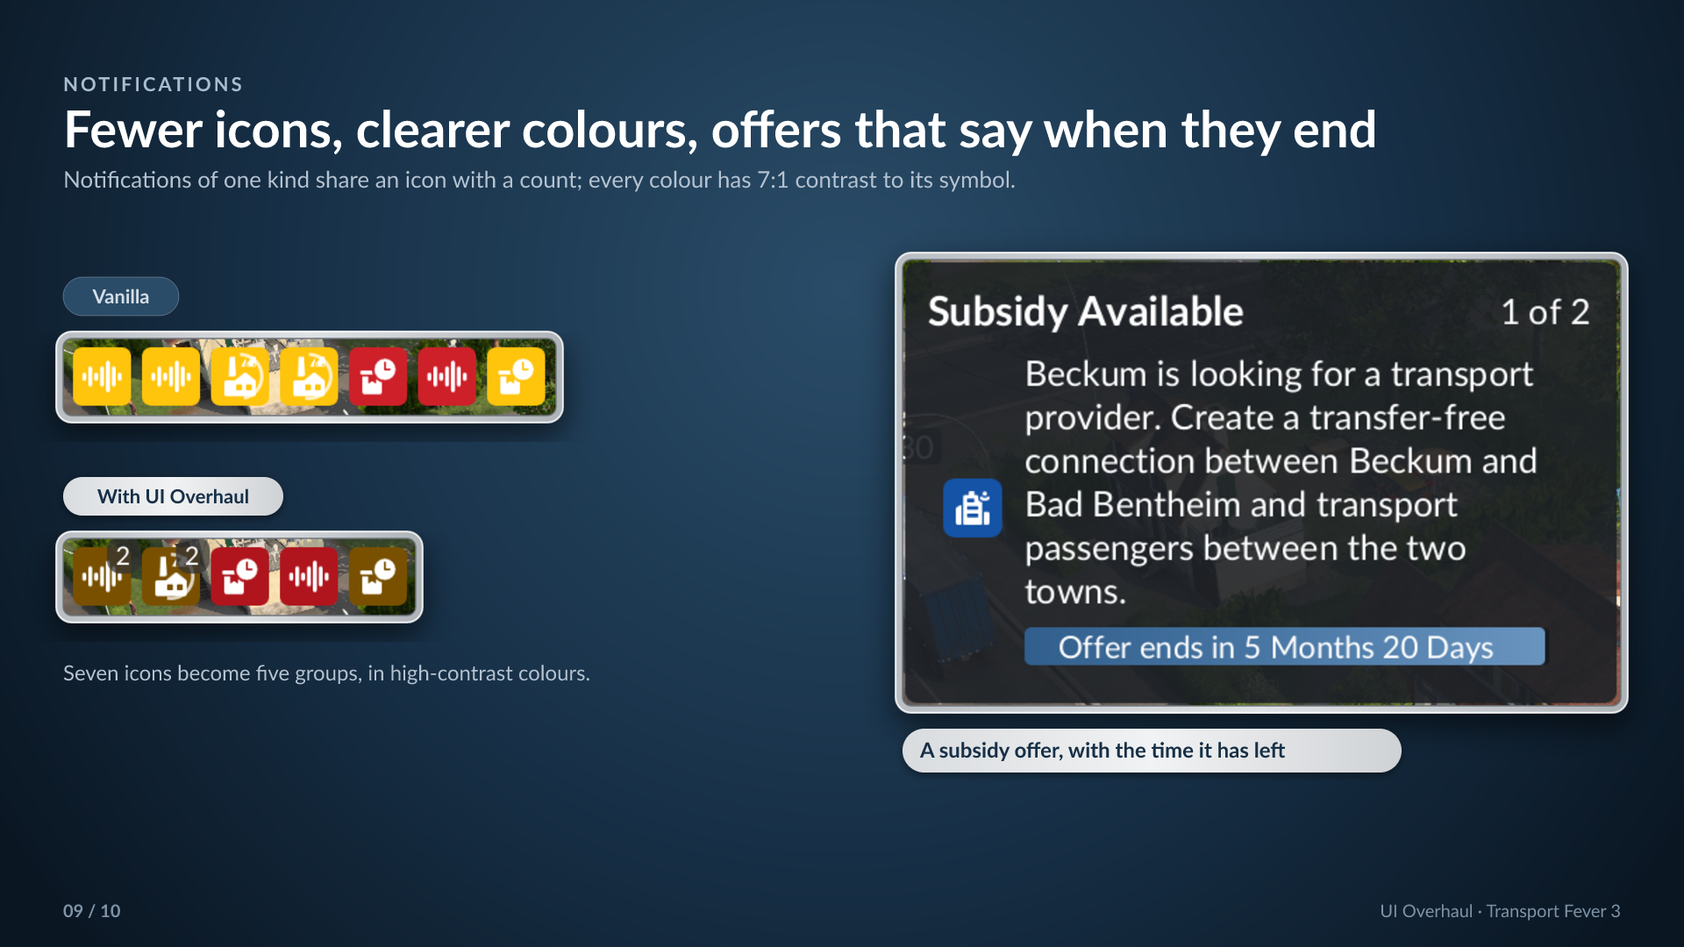
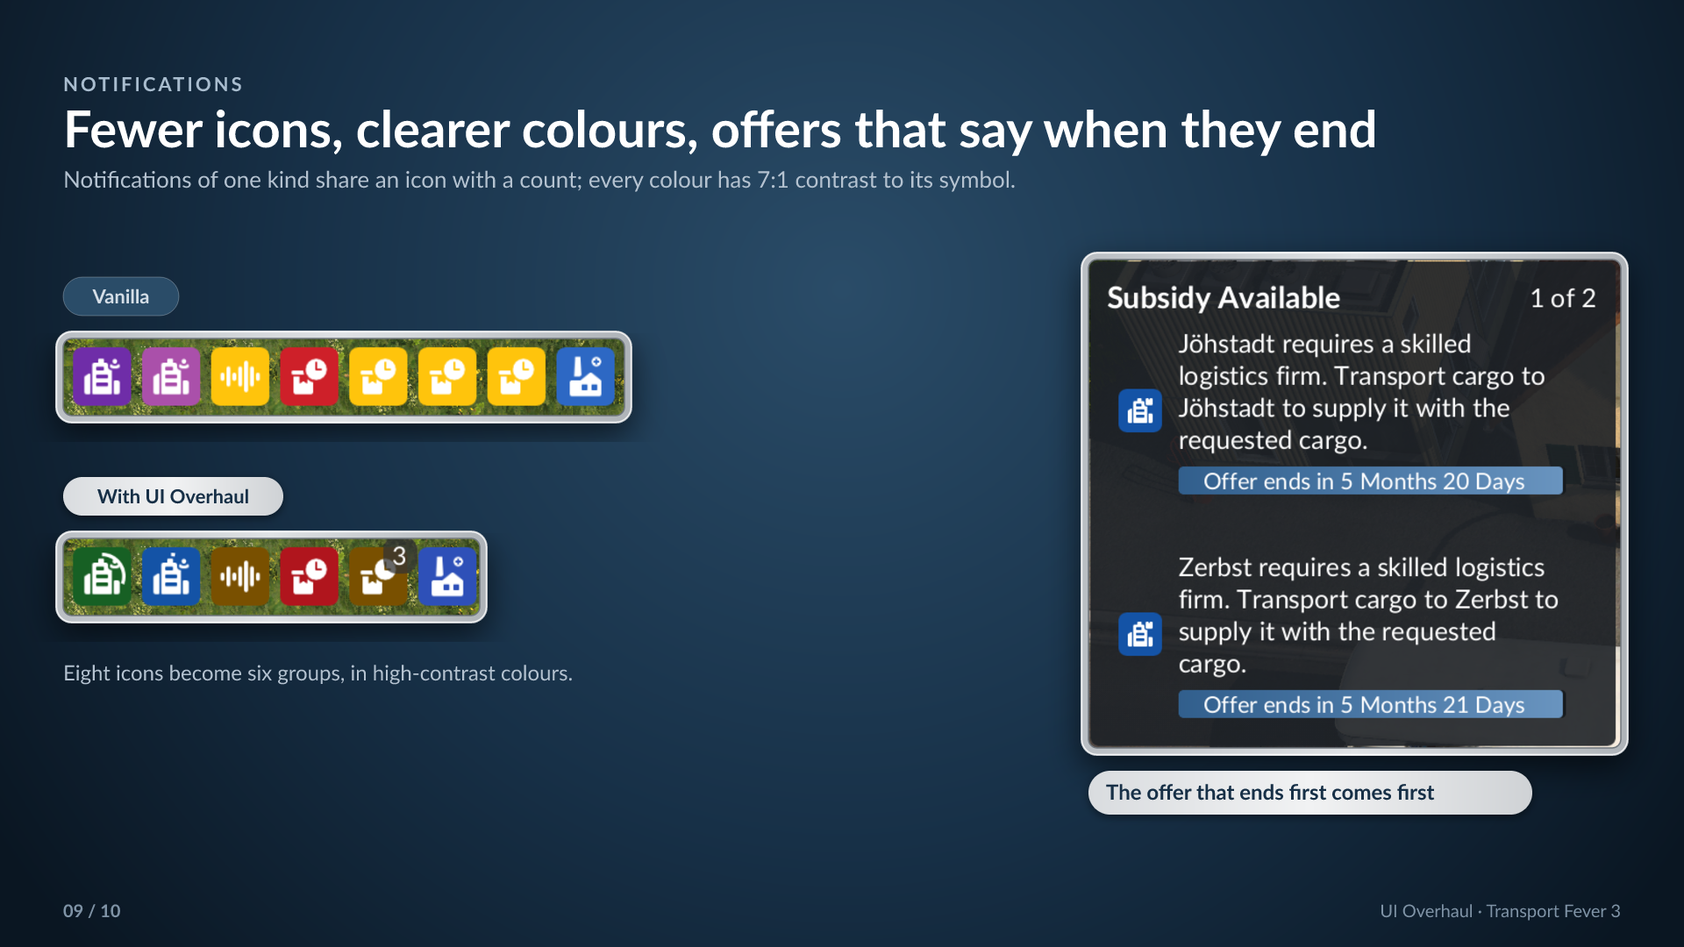
Revision 4: gallery, docs, mod page
- The gallery reshot on "Neues Spiel" (the two-column Line Manager, the subsidy list, the new
  minimize button); compose.py measured again, the scenes' mouse positions with it. The minimize
  scene folds with a real click, which leaves no tooltip.
- mod.json: the "Reopen with the last line" param, revision 4.
- README, design.md (tested with Grid Build Menu, Bigger Line Dots, Town Zoning Tool), gallery.md,
  the mod page text.
- Testbench: the cargo filter checks (Fill Level slider).

diff --git a/tools/gallery/compose.py b/tools/gallery/compose.py
@@ -13,8 +13,8 @@ Usage: tools/gallery/compose.py <screenshots dir> <out dir>
   <screenshots dir> holds gallery-mod/ and gallery-vanilla/ (spec/ingame/results)
 Writes <out dir>/NN-name.svg and <out dir>/crops.txt (the regions the cards use, which build.sh cuts
 into <screenshots dir>/gallery-crops/ before it renders the cards to PNG).
-Regions are in screenshot pixels (3440 x 1440: the captures' screen), measured on the shots of
-World#1; another savegame needs them measured again.
+Regions are in screenshot pixels (3440 x 1440: the captures' screen), measured on the shots of the
+savegame "Neues Spiel" (docs/gallery.md); another savegame needs them measured again.
 """
 import os
 import sys
@@ -194,21 +194,24 @@ TOTAL = 10
 def before_after():
     c = Card(1, TOTAL, "Line Manager", "See which lines lose money at a glance",
              "Vehicle count and 12-month balance for every line, load and age for every vehicle.")
-    crop = (100, 96, 690, 760)  # the Line Manager's title row, lines and vehicles
+    # the Line Manager's title row, lines and vehicles: one column in the game, two with the mod
+    crop_before = (100, 96, 690, 760)
+    crop_after = (100, 96, 1366, 760)
     y = TOP + 44 + 30
-    h = BOTTOM - y
-    w = round(690 * h / 760)
     gap = 130
-    left = (W - 2 * w - gap) // 2
+    scale = (W - 2 * MARGIN - gap) / (crop_before[2] + crop_after[2])
+    h = round(760 * scale)
+    w_before, w_after = round(crop_before[2] * scale), round(crop_after[2] * scale)
+    left = (W - w_before - w_after - gap) // 2
     c.chip(left, TOP + 4, "Vanilla", False)
-    c.shot(VANILLA + "gallery_line_manager.png", crop, (left, y, w, h))
-    right = left + w + gap
+    c.shot(VANILLA + "gallery_line_manager.png", crop_before, (left, y, w_before, h))
+    right = left + w_before + gap
     c.chip(right, TOP + 4, "With UI Overhaul", True)
-    m = c.shot(MOD + "gallery_line_manager.png", crop, (right, y, w, h))
-    c.outline(c.mapped(m, (486, 282, 182, 262)))   # vehicle count and balance
-    c.outline(c.mapped(m, (110, 604, 672, 52)))    # the model row
-    c.outline(c.mapped(m, (543, 664, 212, 172)))   # load, condition and age
-    c.arrow(left + w + gap / 2, y + h / 2)
+    m = c.shot(MOD + "gallery_line_manager.png", crop_after, (right, y, w_after, h))
+    c.outline(c.mapped(m, (486, 288, 182, 556)))    # vehicle count and balance
+    c.outline(c.mapped(m, (788, 335, 662, 36)))     # the model row
+    c.outline(c.mapped(m, (1187, 390, 241, 76)))    # load, condition and age
+    c.arrow(left + w_before + gap / 2, y + h / 2)
     return "01-line-manager-before-after", c
 
 
@@ -219,8 +222,8 @@ def terminals():
     box = (MARGIN, TOP + 8, W - 2 * MARGIN, BOTTOM - TOP - 8)
     context = (560, 0, 2880, round(2880 * box[3] / box[2]))
     m = c.shot(src, context, box)
-    rows = (2822, 196, 558, 240)  # the first terminal's line rows with their buttons
-    pop = (858, 212, 938, 218)    # the popover
+    rows = (2818, 140, 562, 272)  # the terminals' line rows with their buttons
+    pop = (858, 214, 938, 166)    # the popover (above the tooltip of the button that opened it)
     c.outline(c.mapped(m, rows))
     c.outline(c.mapped(m, pop))
     _mp, bp = c.zoom(src, pop, (MARGIN + 56, BOTTOM - 56 - pop[3]), 1.0)
@@ -240,7 +243,7 @@ def industry():
     box_w = W - 2 * MARGIN
     box_h = round(box_w * 1440 / 3440)
     m = c.shot(src, (0, 0, 3440, 1440), (MARGIN, TOP + 8, box_w, box_h))
-    card = (2818, 350, 564, 425)  # Development and Served by
+    card = (2816, 350, 566, 420)  # Development and Served by
     c.outline(c.mapped(m, card))
     _mi, bi = c.zoom(src, card, (MARGIN + 56, TOP + 44), 1.12)
     sc = c.mapped(m, card)
@@ -256,13 +259,13 @@ def statistics():
     box_w = W - 2 * MARGIN
     box_h = round(box_w * 1440 / 3440)
     m = c.shot(src, (0, 0, 3440, 1440), (MARGIN, TOP + 8, box_w, box_h))
-    filters = (90, 1014, 510, 56)
-    totals = (2838, 1016, 520, 56)
+    filters = (90, 1016, 510, 52)
+    totals = (2850, 1016, 510, 54)
     c.outline(c.mapped(m, filters))
     c.outline(c.mapped(m, totals))
     scale = 1.55
     _mf, bf = c.zoom(src, filters, (MARGIN + 70, TOP + 90), scale)
-    _mt, bt = c.zoom(src, totals, (W - MARGIN - 70 - round(520 * scale), TOP + 90), scale)
+    _mt, bt = c.zoom(src, totals, (W - MARGIN - 70 - round(totals[2] * scale), TOP + 90), scale)
     sf, st = c.mapped(m, filters), c.mapped(m, totals)
     c.connector((sf[0] + sf[2] / 2, sf[1] - 4), (bf[0] + bf[2] / 2, bf[1] + bf[3] + BEZEL))
     c.connector((st[0] + st[2] / 2, st[1] - 4), (bt[0] + bt[2] / 2, bt[1] + bt[3] + BEZEL))
@@ -274,17 +277,18 @@ def statistics():
 def workflow():
     c = Card(7, TOTAL, "Workflow", "Replace a vehicle model across your whole network",
              "Pick the model, pull its vehicles from every line, replace them all at once.")
-    crop = (100, 322, 690, 740)
+    vehicles = (780, 236, 690, 740)  # the Line Manager's vehicle column
+    lines = (100, 236, 690, 740)     # its line column, where it asks
     steps = [
-        (MOD + "gallery_models_select.png", "Click the model", (110, 604, 672, 52)),
-        (MOD + "gallery_models_all_lines.png", "“In all lines” adds every one", (110, 610, 666, 266)),
-        (MOD + "gallery_models_replace.png", "Replace them all in one go", (166, 893, 560, 112)),
+        (MOD + "gallery_models_select.png", "Click the model", vehicles, (788, 335, 662, 36)),
+        (MOD + "gallery_models_all_lines.png", "“In all lines” adds every one", vehicles, (788, 326, 662, 640)),
+        (MOD + "gallery_models_replace.png", "Replace them all in one go", lines, (170, 858, 550, 112)),
     ]
     gap = 52
     w = (W - 2 * MARGIN - 2 * gap) // 3
     h = round(w * 740 / 690)
     y = TOP + 76
-    for i, (src, caption, mark) in enumerate(steps):
+    for i, (src, caption, crop, mark) in enumerate(steps):
         x = MARGIN + i * (w + gap)
         m = c.shot(src, crop, (x, y, w, h))
         c.outline(c.mapped(m, mark))
@@ -348,9 +352,9 @@ def line_window():
     c = Card(2, TOTAL, "Line window", "Add or remove a vehicle without the Line Manager",
              "Load and condition per vehicle, Add Vehicle and Remove Vehicle, and a Stops card with who waits where.")
     m, _box, _b = pair(c, (2800, 400, 610, 820), VANILLA + "gallery_line_window.png", MOD + "gallery_line_window.png")
-    c.outline(c.mapped(m, (3080, 488, 146, 134)))   # load and condition
-    c.outline(c.mapped(m, (2836, 660, 424, 52)))    # Add Vehicle, Remove Vehicle
-    c.outline(c.mapped(m, (2822, 720, 556, 262)))   # the Stops card
+    c.outline(c.mapped(m, (3078, 492, 140, 124)))   # load and condition
+    c.outline(c.mapped(m, (2836, 652, 420, 42)))    # Add Vehicle, Remove Vehicle
+    c.outline(c.mapped(m, (2822, 722, 556, 244)))   # the Stops card
     return "02-line-window-before-after", c
 
 
@@ -358,7 +362,7 @@ def vehicle_hover():
     c = Card(3, TOTAL, "Vehicles on the map", "Hover a vehicle, see how it is doing",
              "Line, next stop, speed, load, condition and delivery quality, right where the vehicle is.")
     m, _box, _b = pair(c, (1560, 600, 760, 480), VANILLA + "gallery_vehicle_hover.png", MOD + "gallery_vehicle_hover.png")
-    c.outline(c.mapped(m, (1736, 816, 450, 198)))
+    c.outline(c.mapped(m, (1734, 812, 478, 198)))
     return "03-vehicle-hover-before-after", c
 
 
@@ -383,8 +387,8 @@ def warehouses():
 def notifications():
     c = Card(9, TOTAL, "Notifications", "Fewer icons, clearer colours, offers that say when they end",
              "Notifications of one kind share an icon with a count; every colour has 7:1 contrast to its symbol.")
-    vanilla_ridge = (1140, 8, 450, 70)
-    mod_ridge = (1140, 8, 322, 70)
+    vanilla_ridge = (1140, 8, 512, 70)
+    mod_ridge = (1140, 8, 380, 70)
     scale = 1.25
     y = TOP + 60
     c.chip(MARGIN, y, "Vanilla", False)
@@ -392,11 +396,11 @@ def notifications():
     y2 = y + 70 + round(70 * scale) + 70
     c.chip(MARGIN, y2, "With UI Overhaul", True)
     c.zoom(MOD + "gallery_vehicle_hover.png", mod_ridge, (MARGIN, y2 + 70), scale)
-    card = (1296, 88, 512, 318)
-    s2 = 1.6
+    card = (1036, 88, 514, 472)  # two offers in one group: the one that ends first, the other below
+    s2 = 1.18
     _mc, bc = c.zoom(MOD + "gallery_subsidy_hover_3.png", card, (W - MARGIN - round(card[2] * s2), TOP + 40), s2)
-    c.plate(bc[0], bc[1] + bc[3] + 26, "A subsidy offer, with the time it has left")
-    c.text(MARGIN, y2 + 70 + round(70 * scale) + 74, "Seven icons become five groups, in high-contrast colours.", 24,
+    c.plate(bc[0], bc[1] + bc[3] + 26, "The offer that ends first comes first")
+    c.text(MARGIN, y2 + 70 + round(70 * scale) + 74, "Eight icons become six groups, in high-contrast colours.", 24,
            MUTED, 400)
     return "09-notifications", c
 
@@ -424,8 +428,8 @@ def minimize():
     crop = (2280, 0, 1160, 1220)
     after, _box, before = pair(c, crop, MOD + "gallery_minimize_open.png", MOD + "gallery_minimize_folded.png",
                                ("Open", "Minimized"))
-    c.outline(c.mapped(before, (3222, 20, 42, 42)), radius=21)
-    c.outline(c.mapped(after, (2796, 8, 612, 84)))
+    c.outline(c.mapped(before, (3266, 20, 42, 42)), radius=21)
+    c.outline(c.mapped(after, (2796, 12, 616, 84)))
     return "10-minimize", c
 
 

diff --git a/docs/design.md b/docs/design.md
@@ -24,7 +24,8 @@ The player-facing list is in the [README](../README.md#what-changes). This table
 | Line Manager | vehicle search above the vehicle list (name, model, line) | `lvm_search.lua`, `core/vehicle_search.lua`, `lvm_tweaks.lua` (`install_search`) | the same `VehicleList` replacement, its part shown while the feature is (`priority.active`); narrows the manager's `vehicleManagerStateRef` to the matches and keeps the rest in a stash (so the base's select-all, counts and actions reach only what is shown); wraps the manager api's `addVehiclesToVehicleListAndSelect`, `removeVehiclesFromVehicleList`, `clearVehicleList` to keep the stash in step; with no match the list keeps its vehicles, none selected, and shows no row (an empty list would close the list and its field) |
 | Line Manager | two columns: lines and line panel left, vehicles right, twice as wide | `lvm_columns.lua`, `lvm_columns.css.lua` | wraps `builtin.BoxLayout` (`builtin_wraps.lua`): while `ManagerWindowContent` renders (`react.getCurrentRecipeName`), the one layout with its four parts and no orientation gets them in columns; the parts are file-local recipes and CSS cannot turn a layout, so nothing is replaced. Not with a gamepad (`InputMode` is Undefined until the first input, so the test is "not Gamepad", as the base's); sizes under `!input-mouse Window!uio-on-lvm-columns` |
 | Line Manager | station click with several lines selected does not move their vehicles | `lvm_tweaks.lua` | wraps `commonParams.newLine` |
-| Line Manager | confirmation before cloning, replacing or modifying more than one vehicle; reopening selects the last line | `lvm_tweaks.lua` | patches `react.fireEvent` (`duplicateVehicles`) and `vehicle_react_util.HandleVehicleChanges`; uses the tool stack's pop hook |
+| Line Manager | confirmation before cloning, replacing or modifying more than one vehicle | `lvm_tweaks.lua` | patches `react.fireEvent` (`duplicateVehicles`) and `vehicle_react_util.HandleVehicleChanges` |
+| Line Manager | reopening selects the last line (switch of its own) | `lvm_tweaks.lua` (`install_reopen`) | the tool stack's pop hook remembers the line; the entry point's `openVehicleManager` handler selects it again on the next step |
 | Line Manager | *Select Terminals* with three buttons per terminal | `terminals.lua` | wraps the module function `popover_react_util.PopoverWindowContent`; swaps only a popover with the Line Manager's parameters |
 | Station window | *Select Terminals* button for each line stop in the Terminals list | `station_terminals.lua`, `terminals.lua` | wraps the global `orderedPairs` and `gui_react_util.makeHorizontalSpacer` while the file-local recipe `TerminalStops` renders; off while another mod replaces the station window. With *Select Terminals* off the button opens the base popover: the base recipe once the Line Manager handed it over, else a line-by-line Lua conversion of it (`terminals.Vanilla`; the base recipe is file-local) |
 | Line window | *Add Vehicle* and *Remove Vehicle* in the Vehicles card | `line_vehicles.lua` | replaces `line_eow.LineVehiclesPlugin` |
@@ -48,7 +49,7 @@ The player-facing list is in the [README](../README.md#what-changes). This table
 | Construction | bulldozer warning | `construction.lua` (`install_bulldozer_warning`) | patches `construction_react_util.getActionParams` (the bulldozer's tooltip lines) |
 | Construction | settings panel and Settings window stay above the game bar at large scales | `construction.css.lua` | CSS: height limits in `vh`, bottom padding per text scale |
 | Sliders | mouse wheel (only on sliders of the recipes in `WHEEL_IN`: construction parameters and the game bar; elsewhere the wheel scrolls), typed values | `sliders.lua`, `core/slider_values.lua` | wraps the module fields `builtin.Slider` (recipe `UioSlider` around the base slider) and `script_param_util.buildScriptParamCompSimple` (Lua copy of the local `ScriptParamSliderAndText`); the recipe rendering the slider decides about the wheel; off inside `SettingsPage` |
-| Notifications | icons of the same kind grouped with a count | `notifications.lua` | Lua conversion of the base ridge (`notification_popups.tl`), replacing it |
+| Notifications | icons of the same kind grouped with a count; a group of subsidies shows the one that runs out first and lists the others in its hover card | `notifications.lua`, `core/notification_groups.lua` | Lua conversion of the base ridge (`notification_popups.tl`), replacing it; the end times from `subvention_util.getSubventionAndStatusFromGameScript` in the ridge's timer |
 | Notifications | icons of every type in darker shades of the game's colours (caution amber, problem red, info blue, achievement green, unknown grey; all ≥ 7:1 to white); subsidy icons coloured by state (blue/orange/green/red/grey, all ≥ 7:1 to white), timer ring plain white | `notifications.lua`, `notifications.css.lua` | as the ridge above; a state class around the base icon recipes |
 | Subsidies | offer expiry ring and text, labelled time limit and time left, effect duration | `subsidies.lua` | patches `subvention_util.makeDefaultCardData` (GUI state only) |
 | Finance window | income statement next to the game's table | `finances.lua`, `core/statements.lua` | replaces the exported `FinancesTable` (finances_table.tl); *Details* calls the original |
@@ -153,6 +154,9 @@ The rule: where UI Overhaul and another mod change the same part, the one that c
 | `warehouse_coverage_probe_1` (Warehouse Station Coverage) | a wrapper recipe around `entity_window_util.ActionButtonBar` (Extra Coverage checkbox in the warehouse window), game bar and warehouse window plugins | the action bar | both work in either order since UI Overhaul wraps the bar too; before, its replacement of the bar broke their wrapper (every entity window froze) |
 | `cayde_vue_vehicule_1` (Clean Vehicle View, rev. 29) | sets `_react.recipeReplace` directly for `VehicleWindow`, `builtin.EntityRendererComponent`, `SpeedIndicator` and the recipe in `entity_window_util.ActionButtonBar` (clone price; with Sell confirmation on, that is UI Overhaul's wrapper, which it calls on); wraps `react.useMirrorState`, `button_react_util.makeIconButton`, `make_entity_window.makeEntityWindowContent`; its own minimized bar is a `builtin.Window` wrapper recipe (not closable, so it gets no minimize button) | the vehicle window, the action bar | both work in either order (vehicle window, its minimize and the bar it opens, rename, Sell confirmation, the clone price in the tooltip); a reported crash of both together was not reproduced |
 | `dgbooth_supply_chain_manager_1` (Supply Chain Manager, rev. 1) | replaces `line_react_util.LocateButton` (an "add to the plan" button next to it in Line Manager rows) and `ColorWidget`; a mod button, an industry window plugin, a window of its own docked next to the Line Manager (`api.gui.byId.getSize("menu.management")`) | none | both work in either order (its window, the row button, the Line Manager); its *Supply chain* button at the bottom of the industry window is below the fold with UI Overhaul's cards, the window scrolls |
+| `grid_build_menu` (Grid Build Menu) | sets `_react.recipeReplace` for the builtins `List` (the construction menu's entries in a grid) and `Button` (its toggle next to the menu's close button), from a game bar plugin | none | both work in either order, also together with Bigger Line Dots, Supply Chain Manager, Clean Vehicle View, Industry UI Enhanced and Warehouse Station Coverage (game build 40420); a reported crash with a longer mod list was not reproduced |
+| `square_bigger_line_dots` (Bigger Line Dots) | CSS only (the line dots over stations) | none | both work |
+| `gw_town_zoning_1` (Town Zoning Tool) | replaces the builtin `BoxLayout` in `_react.recipeReplace`, by the id it reads from `react.GetRecipeId(builtin.BoxLayout)`, for a game bar button | `builtin.BoxLayout`, which the two-column Line Manager wraps | both work in either order since `builtin_wraps` answers `GetRecipeId` and `GetRecipeName` for its replacements as the builtin; before, the id was nil and the game failed at startup ("table index is nil"). Tested as a hand-installed copy: the mod.io copy installs as `gw_town_zoning` and its configs name `gw_town_zoning_1`, so it does not start (with or without this mod) |
 | `apasz_dark_ui_1` (Dark UI) | game colours (`default_colors.gres.lua`), CSS | none | both work |
 | `auto_line_namer_1`, `auto_signals_1`, `parallel_tracks_1`, `parallel_roads_1`, `mc_realistic_brk`, `tunnel_portal_fix_1` | game scripts, data | none | both work |
 | `zhenya_easy_terminal_assignment` | wraps `PopoverWindowContent` (order 100) and swaps every popover named `TerminalSelection` | the terminal popover | first in the list wins: UI Overhaul's popover has a name of its own (`UioTerminalPopover`) where it comes first, and the base name where Easy Terminal Assignment does (not tested in game: the mod was not installed) |

diff --git a/README.md b/README.md
@@ -59,7 +59,7 @@ Sorting is fixed where vanilla sorts by something other than what it shows: line
 ### Windows
 
 - Statistics, Line Manager, Finances, Company and the notification log can stay open side by side and next to entity windows. Clicking the map no longer closes them, and *Manage Line* no longer closes the line window.
-- Every window with a title bar and a close button (entity windows, Finances, Company, the vehicle store, layers, mods' windows ...) has a minimize button in its title bar, in the close button's design, with the title bar's own buttons on the right: it folds the window to its title bar, keeps its place and its content. Finances, Company and Statistics fold too, though the game gives them a fixed size. The Line Manager, which has no title bar, gets a slim title row with its name and the button; folded, only that row stays.
+- Every window with a title bar and a close button (entity windows, Finances, Company, the vehicle store, layers, mods' windows ...) has a minimize button in its title bar, in the design of the pin and locate buttons next to it, with the title bar's own buttons on the right: it folds the window to its title bar, keeps its place and its content. Finances, Company and Statistics fold too, though the game gives them a fixed size. The Line Manager, which has no title bar, gets a slim title row with its name and the button; folded, only that row stays.
 - Sections you open in an entity window stay open the next time, and several can be open at once.
 - *Sell* in the vehicle window needs a second click.
 
@@ -100,6 +100,7 @@ Sorting is fixed where vanilla sorts by something other than what it shows: line
 ### Subsidies
 
 - Subsidy icons in the notification row and their hover card show their state: available blue, in progress orange, effect active green, failed red, a missed offer grey. Every colour keeps at least 7:1 contrast to the white symbol (WCAG AAA), also on hover. Their timer ring is drawn in plain white.
+- Several subsidies of the same state share one icon, which shows the one that runs out first. Its hover card lists the others below it, each with its text and time bar, in the order clicks show them.
 - Offers have a ring and a bar for the time until the offer ends, and the card says "Time limit: 2 years - Offer ends in 3 months". Active subsidies say "Time limit" and "1 year 3 months left"; completed ones show how long their effect lasts.
 
 ### Game bar and vehicle store
@@ -113,8 +114,9 @@ Every part of the mod can be switched off on its own, in the mod's settings: the
 
 | Setting | What it switches |
 |---|---|
-| Line Manager | line and vehicle rows, the model row, the questions before cloning or replacing several vehicles, the add-stop hint, reopening on the last line (needs Windows side by side) |
+| Line Manager | line and vehicle rows, the model row, the questions before cloning or replacing several vehicles, the add-stop hint |
 | Vehicle search | the search field above the Line Manager's vehicle list |
+| Reopen with the last line | the Line Manager opening on the line selected when it was closed (needs Windows side by side) |
 | Line Manager in two columns | lines and stops on the left, vehicles on the right |
 | Select Terminals | the terminal popover's buttons, highlighting and greying |
 | Station window: Select Terminals | the button per line stop in the station window |

diff --git a/docs/gallery.md b/docs/gallery.md
@@ -14,8 +14,8 @@ workflow, the overview.
    the game to English and large text for the run and put your settings back afterwards:
 
    ```bash
-   spec/ingame/run.sh --save "World#1" --gallery --language en
-   spec/ingame/run.sh --save "World#1" --gallery --language en --vanilla
+   spec/ingame/run.sh --save "Neues Spiel" --gallery --language en
+   spec/ingame/run.sh --save "Neues Spiel" --gallery --language en --vanilla
    ```
 
    The scenes are the `gallery_*` entries in `gui_checks.lua`; the shots land in
@@ -27,8 +27,10 @@ workflow, the overview.
    `src/ui_overhaul/_metadata/1.png` … `10.png` (`0.png` is the logo). `make deploy` takes them to the
    staging copy, where the mod manager shows them, and Publish uploads them.
 
-The frames are measured on the shots of `World#1` (screenshot pixels, 3440 x 1440). Another savegame
-or screen size shows other lines and places: measure the regions in `compose.py` again on its shots.
+The frames are measured on the shots of `Neues Spiel` (a 1976 map with 18,000 inhabitants; screenshot
+pixels, 3440 x 1440). Another savegame or screen size shows other lines and places: measure the regions
+in `compose.py` again on its shots, and the scenes' mouse positions in `gui_checks.lua` (the subsidy
+group in the ridge, the vehicle window's minimize button).
 
 ## Page text
 
@@ -74,6 +76,7 @@ the 10 images.
    stations on the map, each switched on its own, whenever no tool draws its own overlay.
 9. **Notifications.** Notifications of the same kind share one icon with a count; click to visit
    each, right-click to dismiss the group. Every icon colour, subsidies included, has at least 7:1
-   contrast to its white symbol, and subsidy offers say when they end.
+   contrast to its white symbol, and subsidy offers say when they end. A group of subsidies shows the
+   one that ends first, and its hover card lists the others.
 10. **Windows.** Every window with a close button gets a minimize button next to it. A minimized
     window folds to its title bar and keeps its place, tabs and scroll position.
